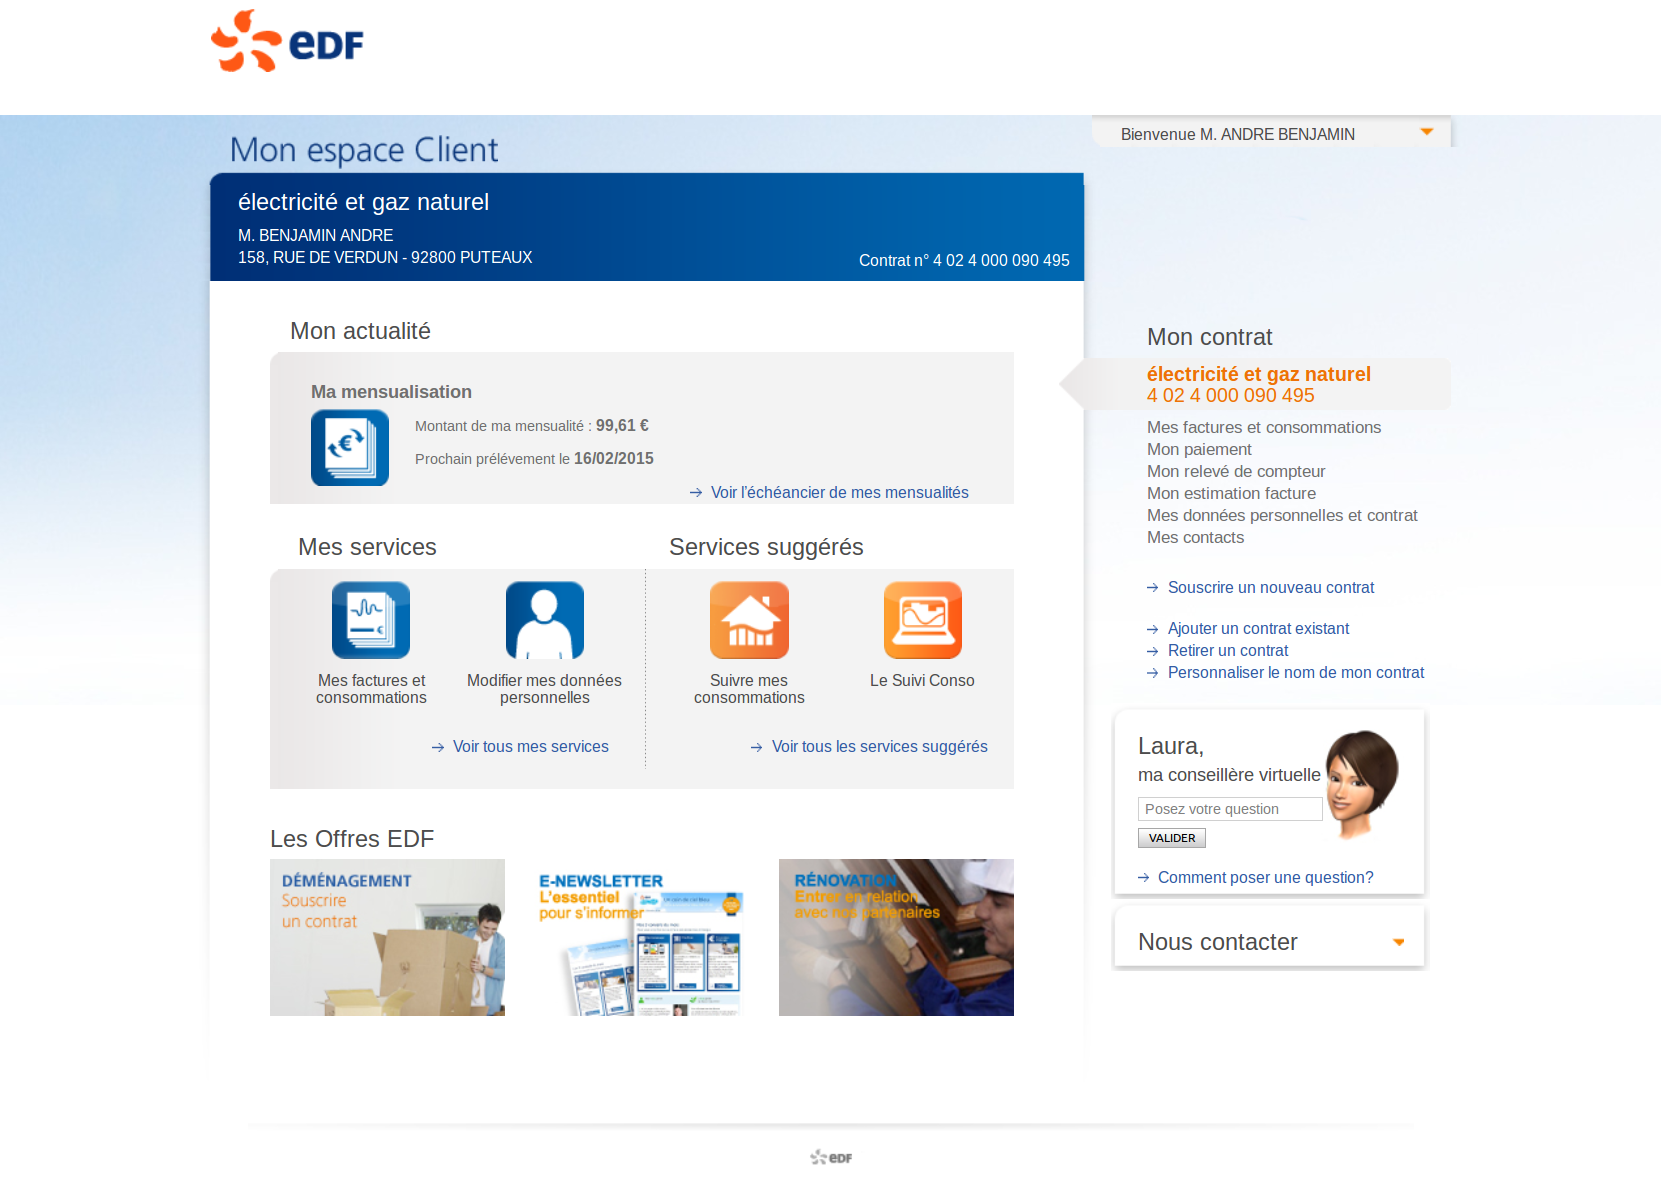
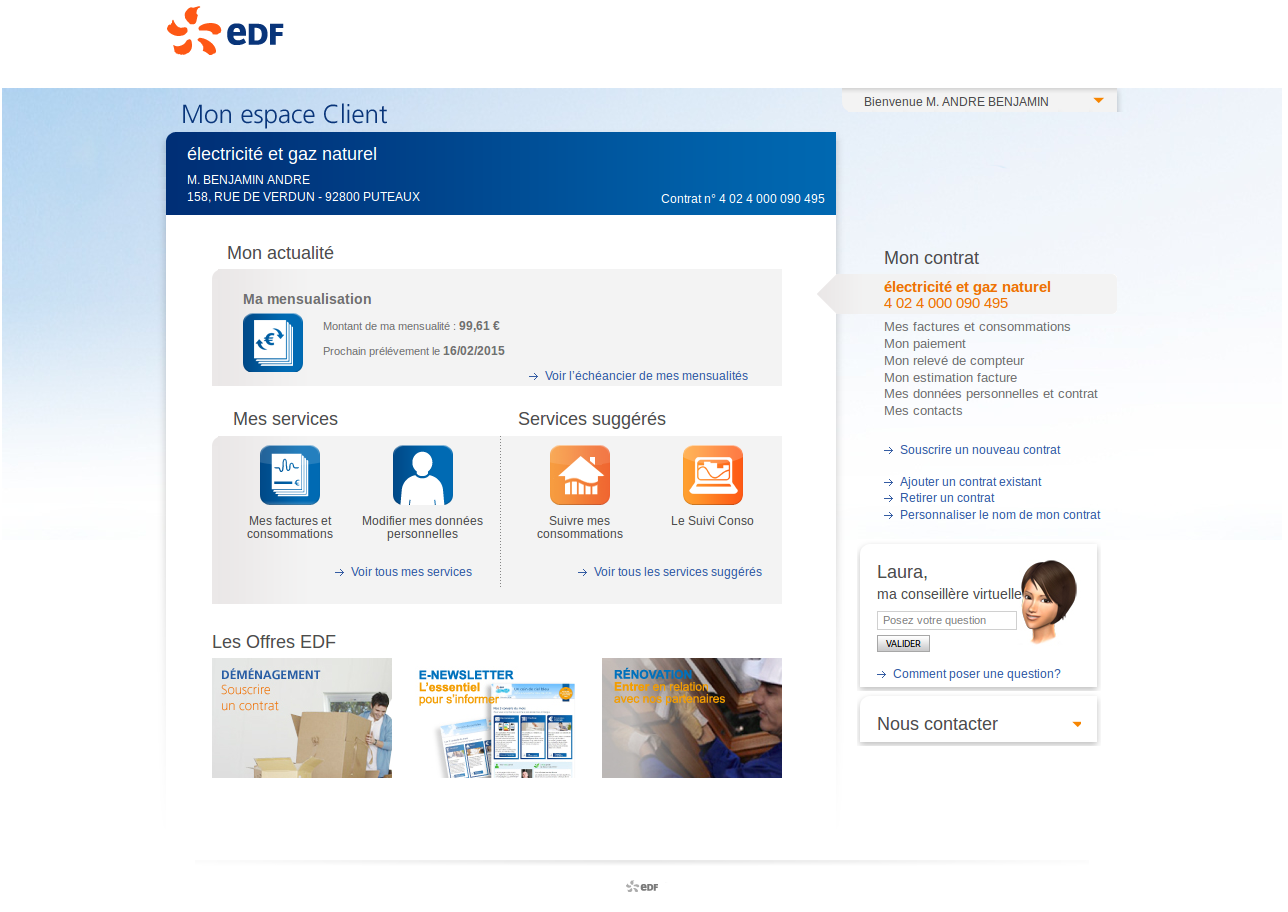
V2

diff --git a/client/app/assets/index.html b/client/app/assets/index.html
@@ -24,16 +24,17 @@
                 position: absolute;
             }
             #btn1{
-                left:1290px;
-                top:327px;
+                left:990px;
+                top:245px;
             }
             #div_btn1{
                 background: blue;
+                color: white;
                 top:150px;
                 left: 50px;
                 width: 200px;
                 height:20px;
-                opacity: 0.5;
+                opacity: 0.7;
             }
             #div_btn1:hover{
                 background: red;
@@ -51,7 +52,7 @@
 
         <div id="accueil" class="screen" >
             <map name="accueil">
-                <area shape="rect" coords="292,570,453,720" onClick="show('factures_et_conso')" title="Factures" alt="Factures" href="#"/>
+                <area shape="rect" coords="236,442,256,462" onClick="show('factures_et_conso')" title="Factures" alt="Factures" href="#"/>
             </map>
             <img id="accueil" src="backgrounds/acceuil-edf.png" usemap="#accueil"></img>
             <button id="btn1" class="floatting_btn" onClick="show('factures_et_conso')">btn</button>

diff --git a/client/public/index.html b/client/public/index.html
@@ -24,16 +24,17 @@
                 position: absolute;
             }
             #btn1{
-                left:1290px;
-                top:327px;
+                left:990px;
+                top:245px;
             }
             #div_btn1{
                 background: blue;
+                color: white;
                 top:150px;
                 left: 50px;
                 width: 200px;
                 height:20px;
-                opacity: 0.5;
+                opacity: 0.7;
             }
             #div_btn1:hover{
                 background: red;
@@ -51,7 +52,7 @@
 
         <div id="accueil" class="screen" >
             <map name="accueil">
-                <area shape="rect" coords="292,570,453,720" onClick="show('factures_et_conso')" title="Factures" alt="Factures" href="#"/>
+                <area shape="rect" coords="236,442,256,462" onClick="show('factures_et_conso')" title="Factures" alt="Factures" href="#"/>
             </map>
             <img id="accueil" src="backgrounds/acceuil-edf.png" usemap="#accueil"></img>
             <button id="btn1" class="floatting_btn" onClick="show('factures_et_conso')">btn</button>
